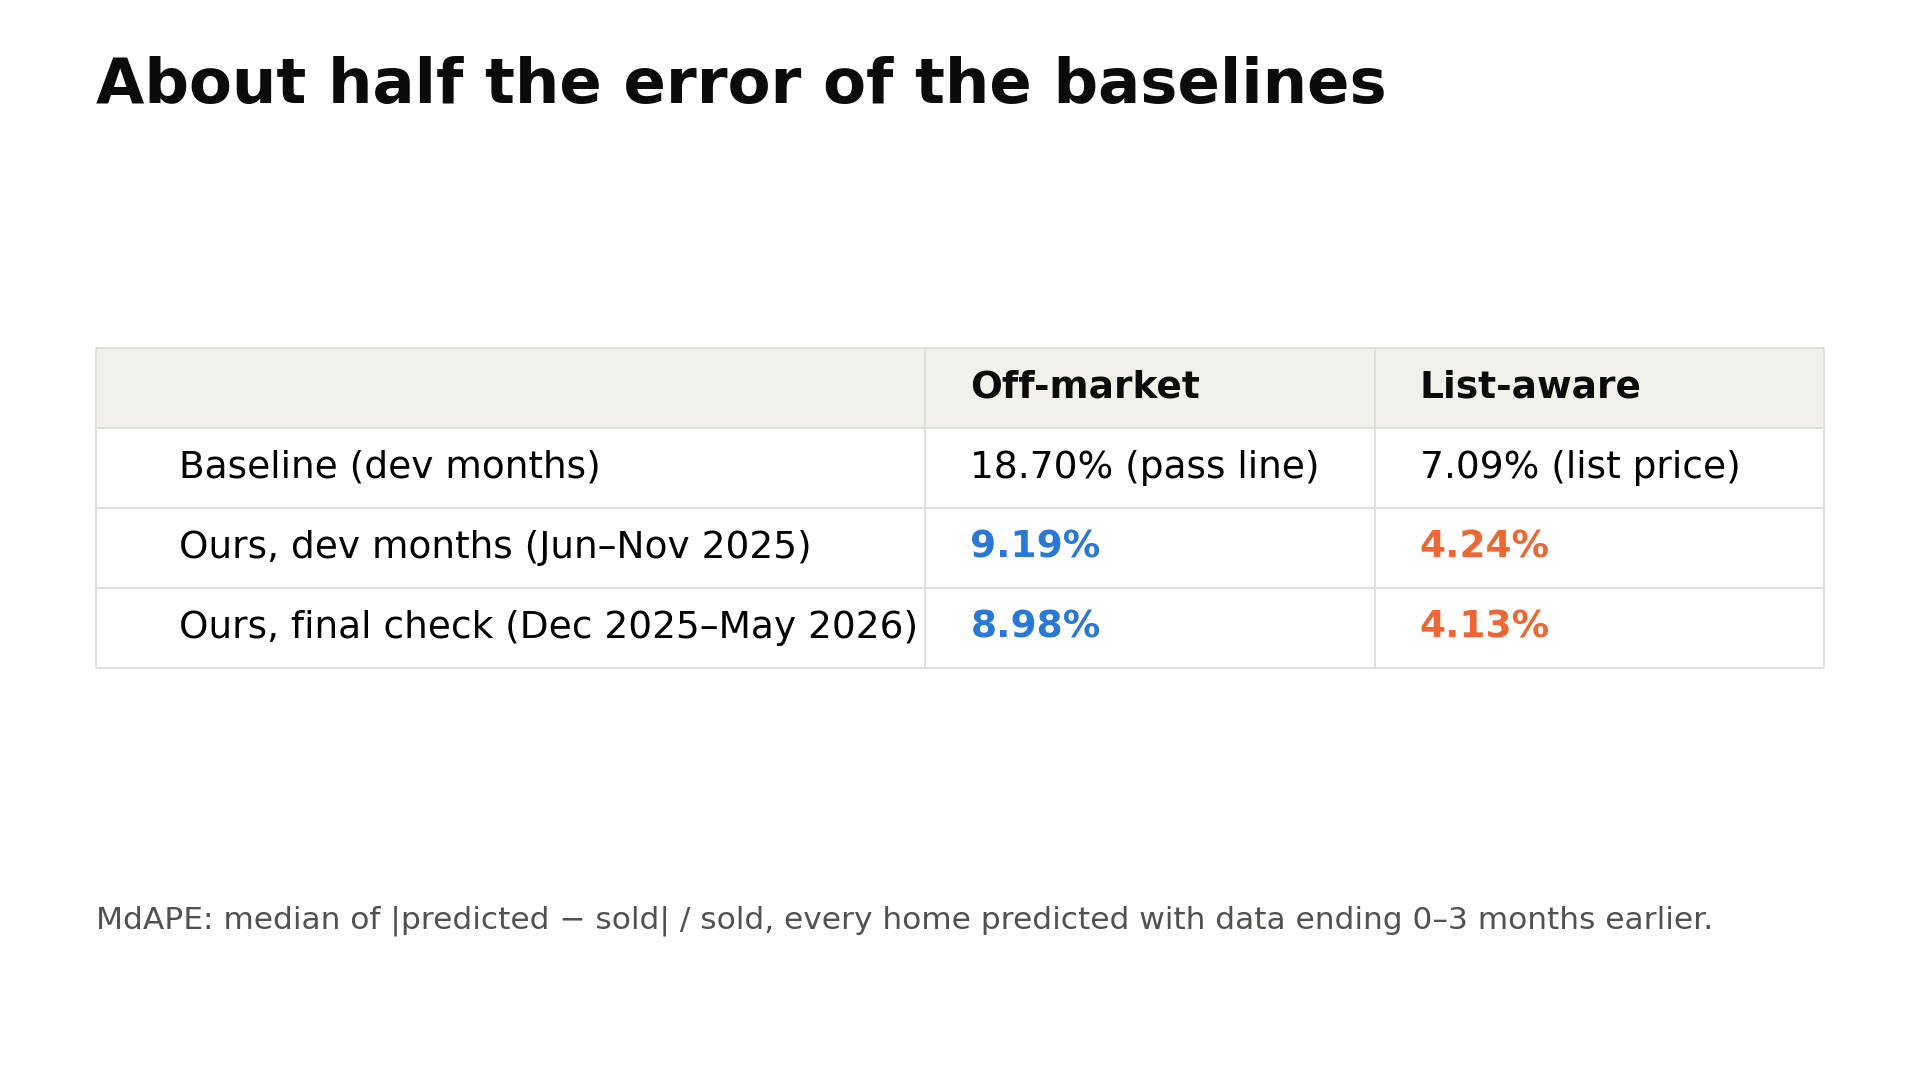
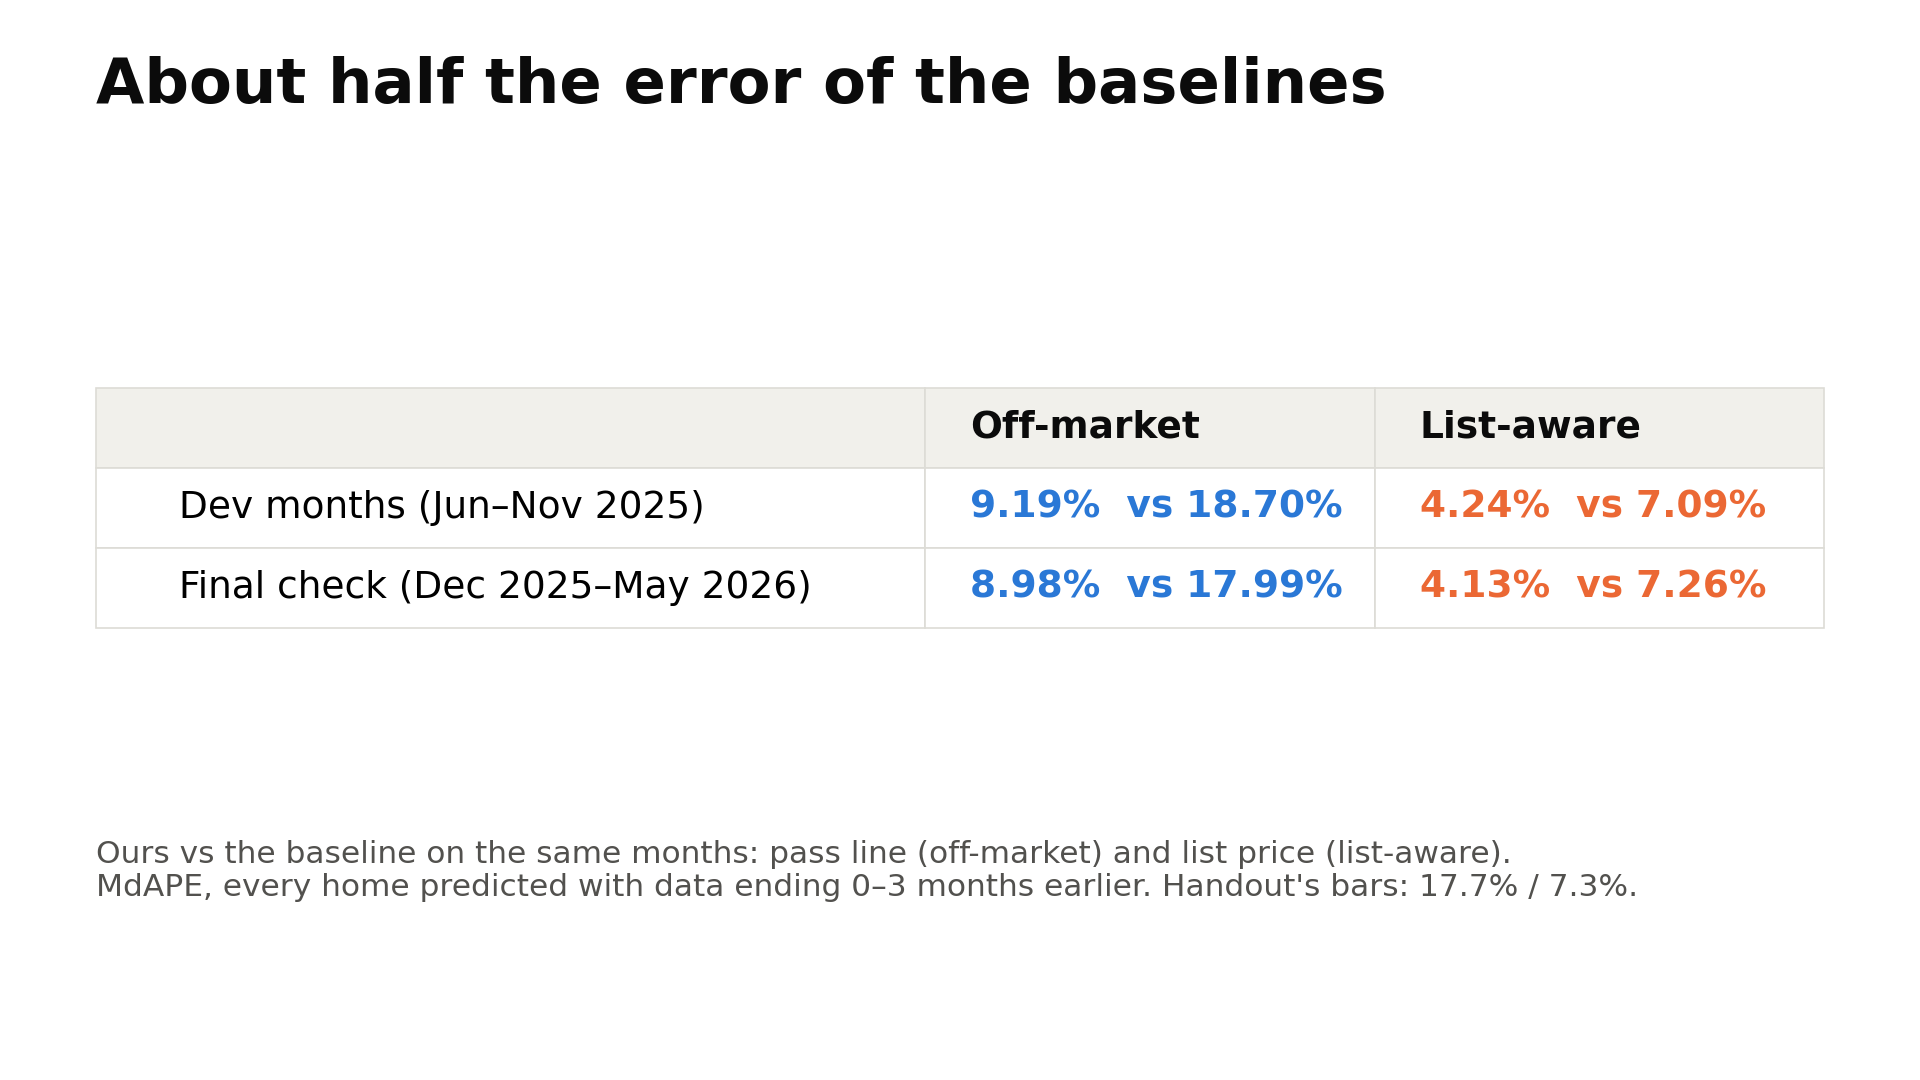
Results slide: compare with baselines on the same months

Changed region(s): [[0.0938, 0.3361, 0.9375, 0.6111], [0.0312, 0.7639, 0.875, 0.8556]]

diff --git a/report/make_slides.py b/report/make_slides.py
@@ -222,14 +222,22 @@ def results(final):
 
     def md(frame, track, model=None):
         rows = frame[(frame["track"] == track) & ((frame["model"] == model) if model else True)]
-        return f"{rows['ape'].median():.2f}%"
+        return rows["ape"].median()
+    import data
+    listings = data.load("listings")
+    months = listings["date_sold"].dt.to_period("M").astype(str)
+
+    def list_price(first, last):   # the list-price baseline does not depend on the gap
+        homes = listings[(months >= first) & (months <= last)]
+        return (100 * (homes["list_price"] - homes["sold_price"]).abs() / homes["sold_price"]).median()
+    passline_check = load("final_check_passline.csv") if (ROOT / "outputs" / "final_check_passline.csv").exists() else None
     rows = [["", "Off-market", "List-aware"],
-            ["Baseline (dev months)", f"{md(baselines, 'off_market', 'passline')} (pass line)",
-             f"{md(baselines, 'list_aware', 'starter')} (list price)"],
-            ["Ours, dev months (Jun–Nov 2025)", md(final, "off_market"), md(final, "list_aware")],
-            ["Ours, final check (Dec 2025–May 2026)",
-             md(check, "off_market") if check is not None else "[pending]",
-             md(check, "list_aware") if check is not None else "[pending]"]]
+            ["Dev months (Jun–Nov 2025)",
+             f"{md(final, 'off_market'):.2f}%  vs {md(baselines, 'off_market', 'passline'):.2f}%",
+             f"{md(final, 'list_aware'):.2f}%  vs {list_price('2025-06', '2025-11'):.2f}%"],
+            ["Final check (Dec 2025–May 2026)",
+             f"{md(check, 'off_market'):.2f}%  vs {md(passline_check, 'off_market'):.2f}%" if check is not None else "[pending]",
+             f"{md(check, 'list_aware'):.2f}%  vs {list_price('2025-12', '2026-05'):.2f}%" if check is not None else "[pending]"]]
     ax = fig.add_axes([0.05, 0.3, 0.9, 0.46]); ax.axis("off")
     table = ax.table(cellText=rows, cellLoc="left", colWidths=[0.48, 0.26, 0.26], loc="center")
     table.auto_set_font_size(False); table.set_fontsize(18); table.scale(1, 3.2)
@@ -237,10 +245,11 @@ def results(final):
         cell.set_edgecolor("#dddcd6"); cell.set_linewidth(0.8)
         if r == 0:
             cell.set_text_props(weight="bold", color=INK); cell.set_facecolor("#f1f0eb")
-        if r >= 2 and c > 0:
+        if r >= 1 and c > 0:
             cell.set_text_props(weight="bold", color=BLUE if c == 1 else ORANGE)
-    fig.text(0.05, 0.14, "MdAPE: median of |predicted − sold| / sold, every home predicted with data ending "
-             "0–3 months earlier.", fontsize=15, color=MUTED)
+    fig.text(0.05, 0.17, "Ours vs the baseline on the same months: pass line (off-market) and list price (list-aware).\n"
+             "MdAPE, every home predicted with data ending 0–3 months earlier. Handout's bars: 17.7% / 7.3%.",
+             fontsize=15, color=MUTED)
     save(fig, "slide07a_results.png")
 
 
